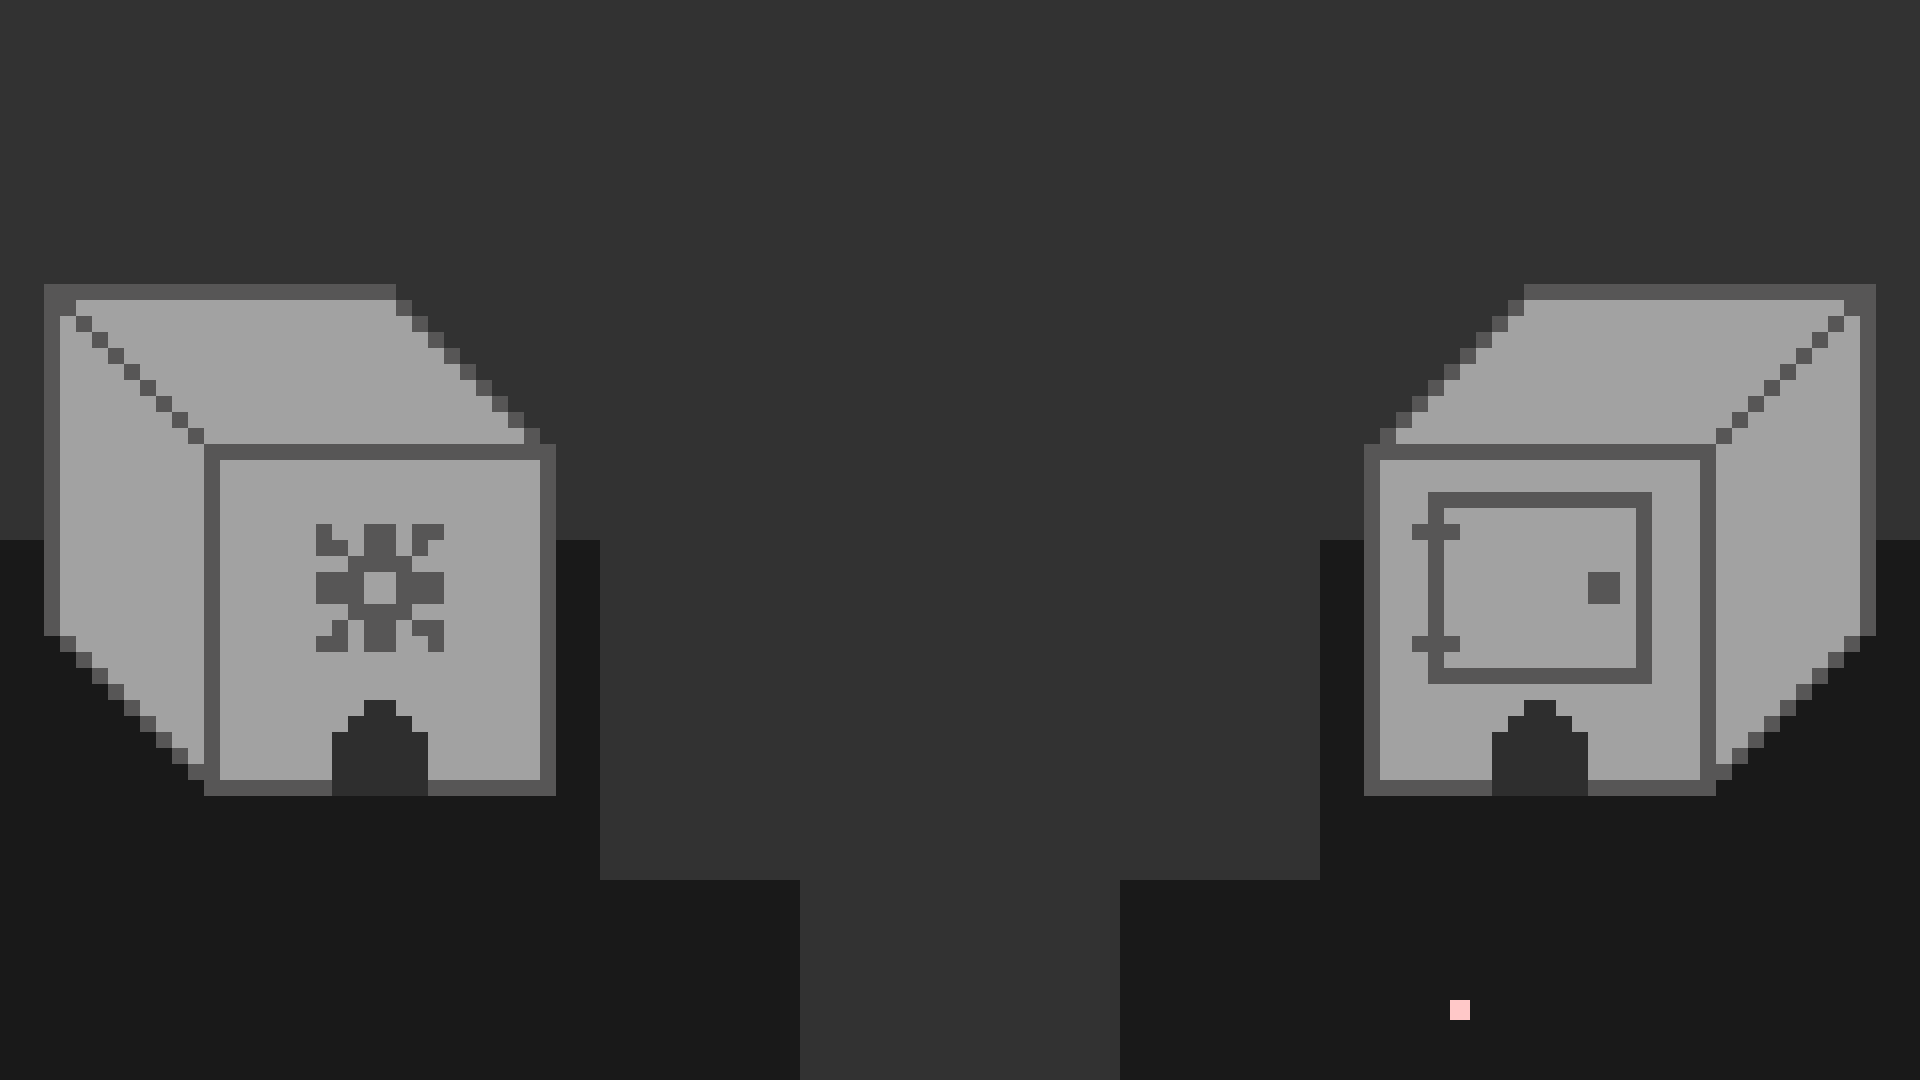
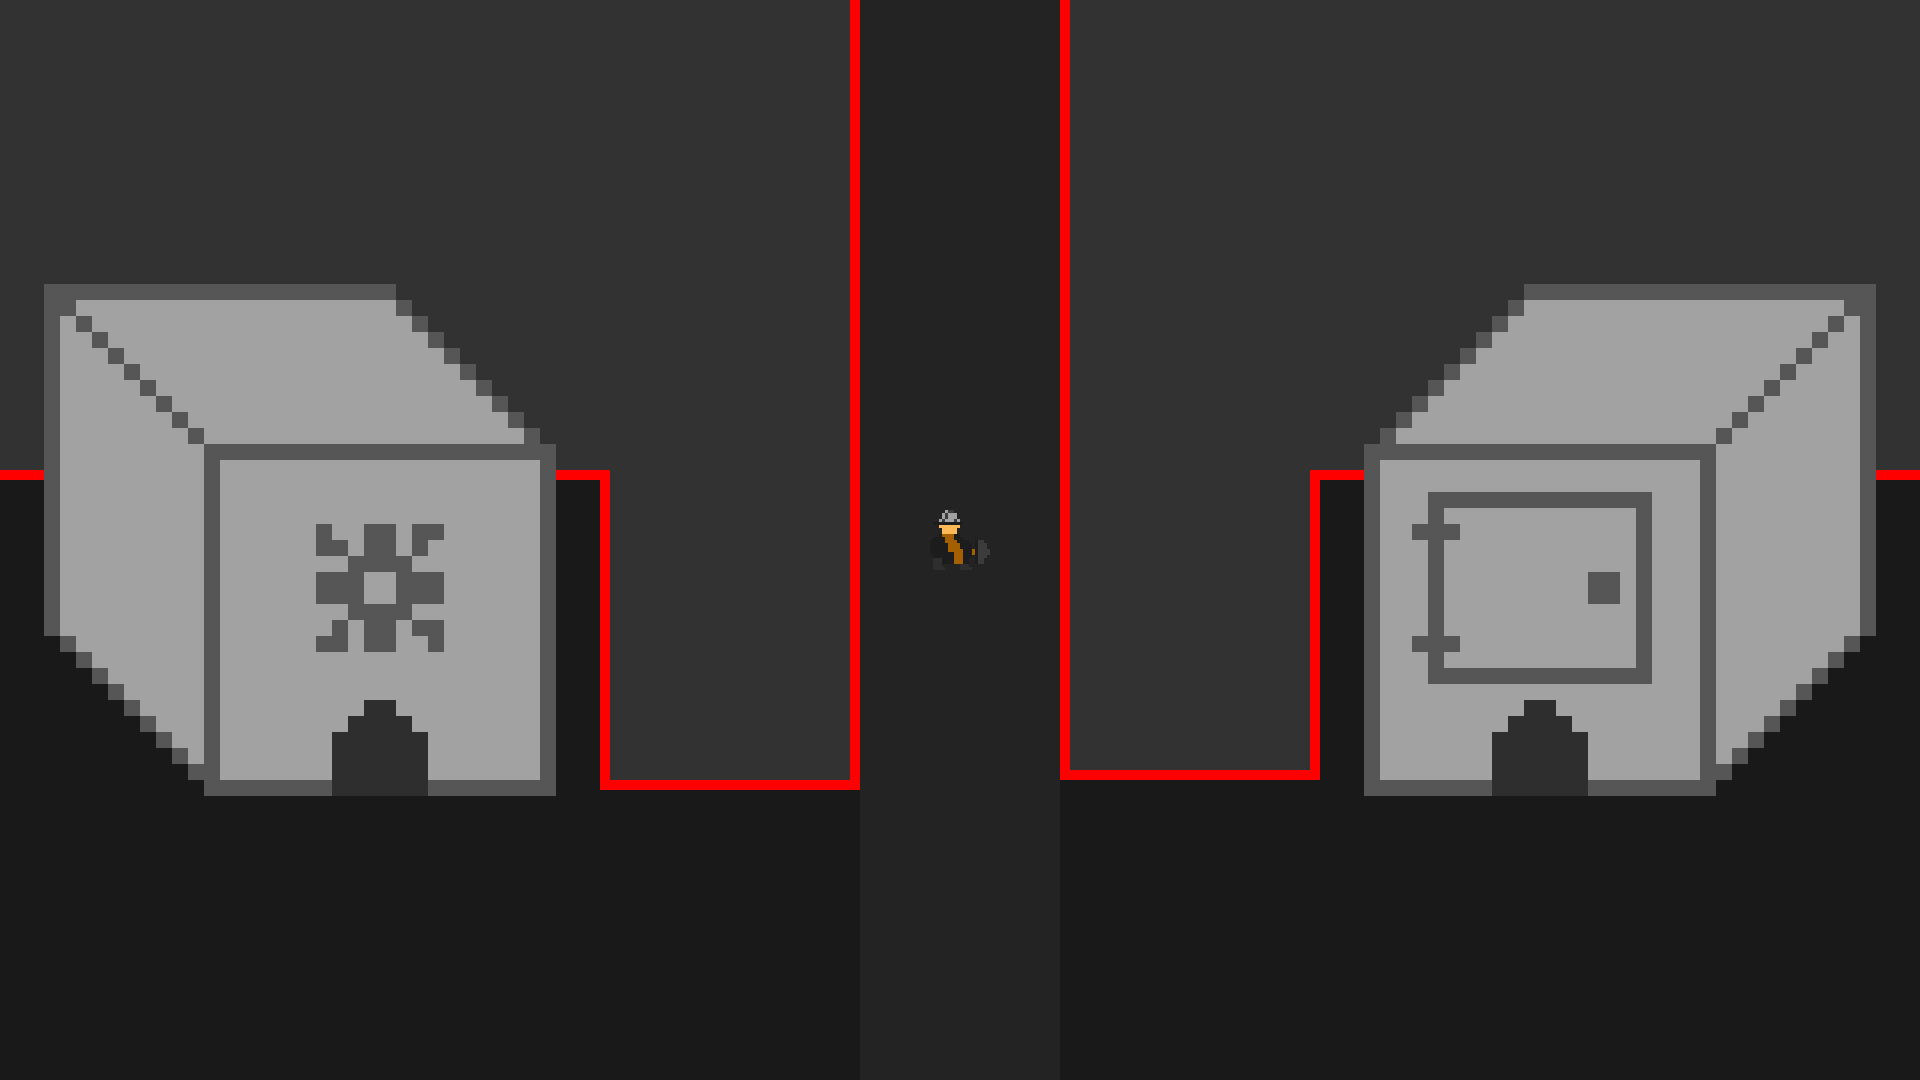
Second Design for Menu

diff --git a/module3.py b/module3.py
@@ -1,8 +1,9 @@
-from pydoc import visiblename
 import pygame
+from Character_Object import miner
 
 pygame.init()
 screen = pygame.display.set_mode((0,0), pygame.FULLSCREEN)
+time = 0
 
 class building(pygame.sprite.Sprite):
     def __init__(self, type, x, y):
@@ -14,34 +15,23 @@ class building(pygame.sprite.Sprite):
             self.image = pygame.image.load("Textures/Menu/Vault_Building.png").convert_alpha()
             self.rect = self.image.get_rect(center = (x, y))
 
-class player(pygame.sprite.Sprite): #Creates a movable player
-    def __init__(self, x, y, velocity): #Initializes the player
+class invisWall(pygame.sprite.Sprite): #Creates an invisible Wall, this prevents the player from leaving the screen and forces them into the playing area
+    def __init__(self, start, visible, stretch):
         super().__init__()
-        self.velocity = velocity
-        self.image = pygame.Surface((20, 20))
-        self.image.fill((255, 200, 200))
-        self.rect = self.image.get_rect(center = (x, y))
-
-    def update(self, dx, dy): #Allows the player to move
-        self.rect.x += dx * self.velocity
-        self.rect.y -= dy * self.velocity
-
-class invisWall(pygame.sprite.Sprite):
-    def __init__(self, x, y, visible, xStretch, yStretch):
-        super().__init__()
-        self.id = (x, y)
-        self.image = pygame.Surface((xStretch, yStretch))
         if visible:
+            self.image = pygame.Surface(stretch)
             self.image.fill((255, 0, 0))
-        self.rect = self.image.get_rect(center = (x, y))
+        else:
+            self.image = pygame.Surface(stretch, pygame.SRCALPHA)
+        self.rect = self.image.get_rect(topleft = start)
 
 settingBlock = building(0, 300, 540)
 vaultBlock = building(1, 1620, 540)
-playerA = player(960, 540, 10)
+playerA = miner(960, 540, 5)
 invisWallGroup = pygame.sprite.Group()
-blocks = [[320, 540, 1, 20, 100]]
-for x, y, visible, xStretch, yStretch in blocks:
-    invisWallGroup.add(invisWall(x, y, visible, xStretch, yStretch))
+blocks = [[(0, 470), 0, (600, 10)], [(600, 780), 0, (260, 10)], [(600, 470), 0, (10, 310)], [(850, 0), 0, (10, 780)], [(1320, 470), 0, (600, 10)], [(1310, 470), 0, (10, 310)], [(1060, 0), 0, (10, 780)], [(1070, 770), 0, (240, 10)]]
+for pos1, visible, pos2 in blocks:
+    invisWallGroup.add(invisWall(pos1, visible, pos2))
 
 while True:
     screen.fill((50, 50, 50))
@@ -49,30 +39,32 @@ while True:
     keys = pygame.key.get_pressed() #Checks which keys are pressed and moves accordingly
 
     if keys[pygame.K_w]:
-        playerA.update(0, 1)
+        playerA.update(0, 1, time, 1)
         if pygame.sprite.spritecollide(playerA, invisWallGroup, False):
-            playerA.update(0, -1)
+            playerA.update(0, -1, time, 0)
     if keys[pygame.K_s]:
-        playerA.update(0, -1)
+        playerA.update(0, -1, time, 1)
         if pygame.sprite.spritecollide(playerA, invisWallGroup, False):
-            playerA.update(0, 1)
+            playerA.update(0, 1, time, 0)
     if keys[pygame.K_a]:
-        playerA.update(-1, 0)
+        playerA.update(-1, 0, time, 1)
         if pygame.sprite.spritecollide(playerA, invisWallGroup, False):
-            playerA.update(1, 0)
+            playerA.update(1, 0, time, 0)
     if keys[pygame.K_d]:
-        playerA.update(1, 0)
+        playerA.update(1, 0, time, 1)
         if pygame.sprite.spritecollide(playerA, invisWallGroup, False):
-            playerA.update(-1, 0)
+            playerA.update(-1, 0, time, 0)
 
-    pygame.draw.rect(screen, (25, 25, 25), ((0, 540), (600, 1080))) #Places the buildings and player on the screen
-    pygame.draw.rect(screen, (25, 25, 25), ((0, 880), (800, 1080)))
-    pygame.draw.rect(screen, (25, 25, 25), ((1320, 540), (1920, 1080)))
-    pygame.draw.rect(screen, (25, 25, 25), ((1120, 880), (1920, 1080)))
+    pygame.draw.rect(screen, (35, 35, 35), ((860, 0), (200, 1080))) #Middle Path
+    pygame.draw.rect(screen, (25, 25, 25), ((0, 480), (600, 600))) #Left Platform
+    pygame.draw.rect(screen, (25, 25, 25), ((1320, 480), (600, 600))) #Right Platform
+    pygame.draw.rect(screen, (25, 25, 25), ((600, 780), (260, 300))) #Left Connector
+    pygame.draw.rect(screen, (25, 25, 25), ((1060, 780), (260, 300))) #Right Connector
+
+    invisWallGroup.draw(screen)
     screen.blit(playerA.image, playerA.rect)
     screen.blit(settingBlock.image, settingBlock.rect)
     screen.blit(vaultBlock.image, vaultBlock.rect)
-    invisWallGroup.draw(screen)
 
     pygame.display.flip() #Updates and controls the game
 
@@ -80,6 +72,8 @@ while True:
         if event.type == pygame.QUIT:
             exit()
 
+        if event.type == pygame.MOUSEBUTTONDOWN:
+            print(pygame.mouse.get_pos())
         if event.type == pygame.KEYDOWN:
             if event.key == pygame.K_KP_ENTER:
                 exit()
@@ -87,3 +81,6 @@ while True:
             if event.key == pygame.K_KP_PLUS:
                 pygame.image.save(screen, "menuPage.png")
     pygame.time.Clock().tick(60)
+    time += 1
+    if time == 60:
+        time = 0

diff --git a/Character_Object.py b/Character_Object.py
@@ -1,0 +1,30 @@
+import pygame
+
+class miner(pygame.sprite.Sprite): #Creates a movable player
+    def __init__(self, x, y, velocity): #Initializes the player
+        super().__init__()
+        self.idleAnimations = ["Textures/Characters/Miner/miner_idle_1.png", "Textures/Characters/Miner/miner_idle_2.png"]
+        self.flippedAnimations = ["Textures/Characters/Miner/miner_idle_1_flip.png", "Textures/Characters/Miner/miner_idle_2_flip.png"]
+        self.animations = [self.flippedAnimations, self.idleAnimations]
+        self.velocity = velocity
+        self.facingDirection = 1 #1 = Facing to Right, 0 = Facing to Left
+        self.currentAnimation = 0
+        self.image = pygame.image.load(self.animations[self.facingDirection][self.currentAnimation]).convert_alpha()
+        self.rect = self.image.get_rect(center = (x, y))
+
+    def update(self, dx, dy, time, flip): #Allows the player to move
+        self.rect.x += dx * self.velocity
+        self.rect.y -= dy * self.velocity
+        
+        if dx < 0 and self.facingDirection == 1 and flip:
+            self.facingDirection = 0
+        if dx > 0 and self.facingDirection == 0 and flip:
+            self.facingDirection = 1
+
+        if (abs(dx) + abs(dy) == 0 and time == 30) or (abs(dx) + abs(dy) != 0 and time % 5 == 0):
+            if self.currentAnimation == 0:
+                self.currentAnimation = 1
+            else:
+                self.currentAnimation = 0
+
+        self.image = pygame.image.load(self.animations[self.facingDirection][self.currentAnimation]).convert_alpha()
